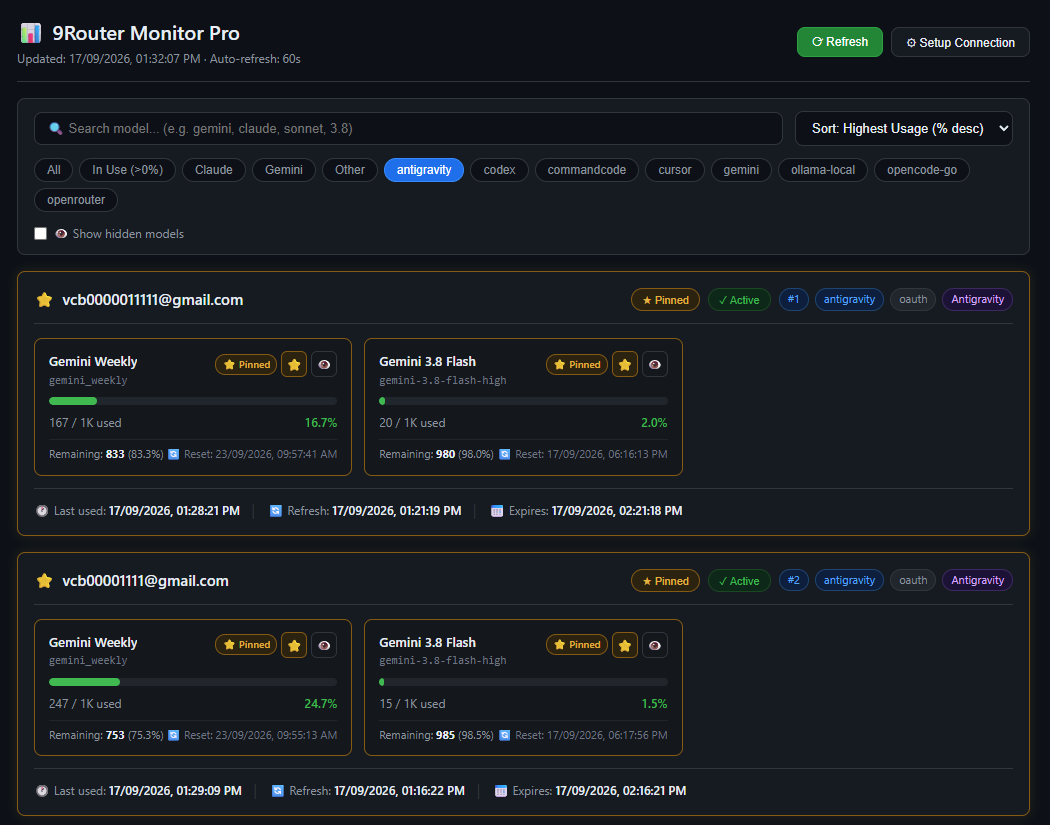
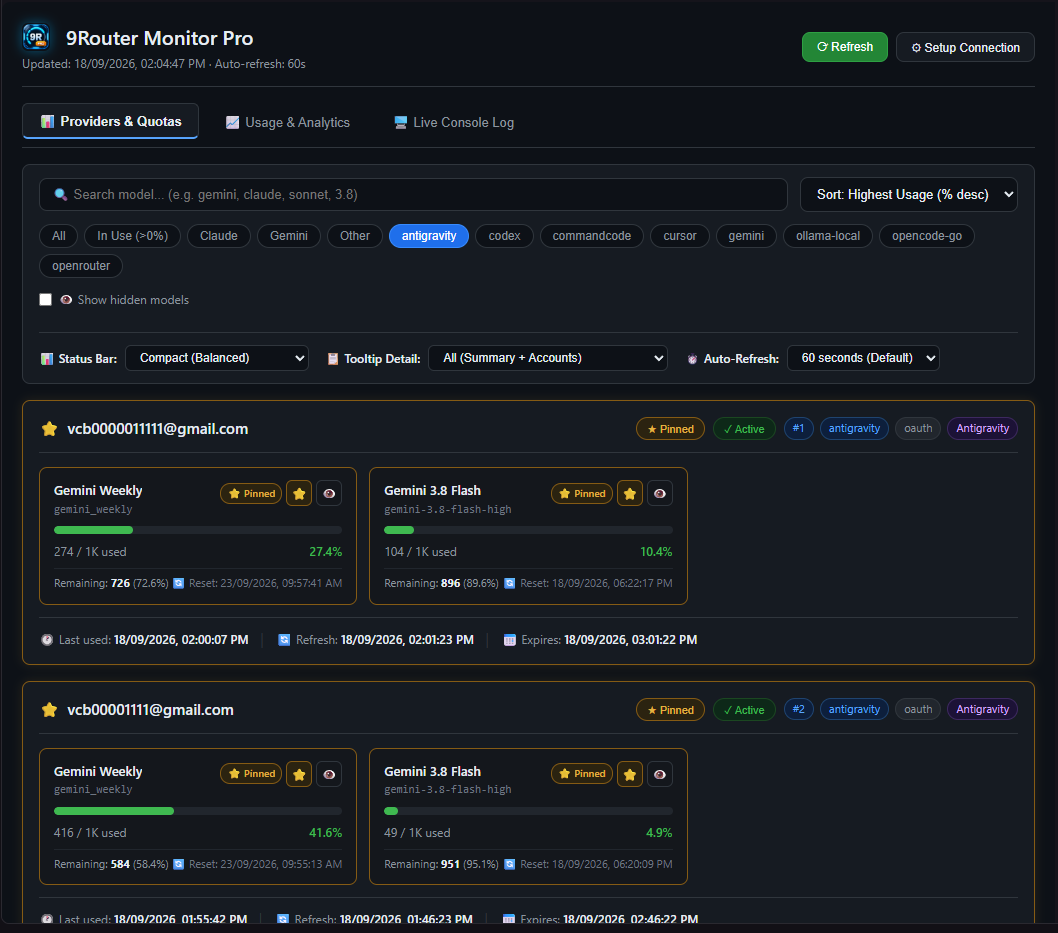
docs: cap nhat changelog va readme phien ban 1.1.0 cung bo screenshot giao dien moi

diff --git a/README.md b/README.md
@@ -24,27 +24,58 @@
 ## 📸 Visual Showcase & Feature Tour
 
 ### 1. Interactive Webview Dashboard Pro Max (3-Tab Command Center)
-A comprehensive control center with seamless tabbed navigation:
-- **📊 Providers & Quotas**: High-performance Fluent Dark Theme grid matrix that gives you an immediate overview of all AI providers connected to 9Router. Features realtime keyword search, dynamic category filter chips (`Antigravity`, `Gemini`, `Claude`, `Codex`, etc.), multi-criteria sorting, and one-click pin/hide/active controls.
-- **📈 Usage & Analytics**: Real-time aggregated monitoring with 5 KPI cards (Total Requests, Prompt Tokens, Cached Tokens, Completion Tokens, Est. Cost) and a live historical table of the 20 most recent requests with status badges.
-- **🖥 Live Console Log**: Stream server logs in real time over Server-Sent Events (SSE) directly into an embedded Fluent dark terminal. Features Pause/Resume, Server Clear sync, Auto-scroll, text search/filter, and syntax highlighting (`DONE`, `POST`, `TOKEN_REFRESH`, `WARN`, `ERROR`).
-- **🔄 Zero State Loss**: Switching between tabs uses CSS display toggling to preserve 100% of the terminal log buffer, scroll position, and search filter state without reloading.
+A comprehensive, zero-latency control center with seamless tabbed navigation:
 
-![9Router Monitor Pro Webview Dashboard](media/screenshot-dashboard.png)
+#### Tab 1 · 📊 Providers & Quotas
+High-performance Fluent Dark Theme grid matrix that gives you an immediate overview of all AI providers connected to 9Router. Features realtime keyword search, dynamic category filter chips (`Antigravity`, `Gemini`, `Claude`, `Codex`, etc.), multi-criteria sorting (Highest Usage, Lowest, Name, Priority), and one-click pin/hide/active controls.
 
-### 2. Multi-Account Status Bar Aggregation & Dedicated Log Widget
+![Providers and Quotas Tab](media/screenshot-dashboard.png)
+
+#### Tab 2 · 📈 Usage & Analytics
+Real-time aggregated monitoring with 5 KPI cards (**Total Requests**, **Prompt Tokens**, **Cached Tokens**, **Completion Tokens**, **Est. Cost**) and a live historical table of recent requests with HTTP status badges, token in/out ratios, model, and active accounts. Features Date Picker filtering with midnight rollover and configurable auto-reload intervals.
+
+![Usage and Analytics Tab](media/screenshot-analytics.png)
+
+#### Tab 3 · 🖥 Live Console Log
+Stream server logs in real time over Server-Sent Events (SSE) directly into an embedded Fluent dark terminal. Features Pause/Resume, Server Clear sync, Auto-scroll, text search/filter, date range navigation, flexible pagination (100, 200, 500, All), and syntax highlighting (`DONE`, `POST`, `TOKEN_REFRESH`, `WARN`, `ERROR`). Automatically activates an **Adaptive Tunnel Engine** when connecting remotely via Cloudflare Tunnel to bypass proxy response buffering.
+
+![Live Console Log Tab](media/screenshot-console-log.png)
+
+---
+
+### 2. Dual Status Bar Widgets & Live Telemetry Pulse
 Never crowd your status bar. 9Router Monitor Pro provides two complementary status bar indicators:
-- **Main Quota Widget**: When pinning multiple accounts, automatically sums up remaining balances and total quotas into a single condensed metric (`10 ⭐ · G3.8 9.9K · GW 8.6K`). Hovering reveals a high-density Markdown inspection table with per-account breakdowns, usage percentages, and reset countdowns.
-- **⚡ Dedicated Log Widget (`$(terminal) 9R Log`)**: An independent status bar shortcut placed right next to the main quota widget. 1-click opens directly into the Live Console Log tab. Can be toggled on/off at any time via `aiTokenUsage.showLogStatusBar` or Quick Menu.
+- **📊 Main Quota Widget**: Sums up remaining balances and total quotas across all pinned accounts into a single condensed metric (`10 ⭐ · G3.8 9.4K · GW 7.6K`). Hovering reveals a high-density Markdown inspection table with aggregate totals and per-account breakdowns.
+- **⚡ Dedicated 9R Log Widget (`$(terminal) 9R Log · 10.2K req · G3.8 🟢`)**: An independent status bar widget placed right next to the main quota bar. Shows real-time request density, current active model, and a live health pulse dot (`🟢`). Click to open directly into the Live Console Log.
 
-![Status Bar Aggregation & Details Tooltip](media/screenshot-status.png)
+![Dual Status Bar Widgets](media/screenshot-status.png)
 
-### 3. Persistent Quick Menu
-No more frustrating hover dismissals! Click the status bar metric to open an interactive, keyboard-navigable Quick Menu. Easily multi-select accounts or models to pin, enable/disable provider accounts, adjust auto-refresh intervals, switch status bar display styles, or reconfigure connections.
+---
 
-![Persistent Quick Menu](media/screenshot-quickmenu.png)
+### 3. Minimalist Hover Intelligence HUD
+Hover over the **9R Log** status bar item to trigger the instant Hover Intelligence HUD:
+- **KPI Snapshot Matrix**: Immediate glance at total requests, input tokens, cache hits, output tokens, and estimated cost.
+- **Recent Transactions Stream**: Interactive table showing the last 10, 25, or 50 API transactions with timestamps, target models, providers, token volumes, and execution statuses.
+- **Synchronized Action Bar**: 1-click links to Quick Menu, Dashboard, Live Console Log, Usage Analytics, Tooltip Mode toggle, and Instant Refresh.
 
-### 4. Full Command Palette Integration
+![Hover Intelligence HUD](media/screenshot-tooltip-log.png)
+
+---
+
+### 4. Persistent Quick Menu & Advanced Controls
+No more frustrating hover dismissals! Click the status bar metric to open an interactive, keyboard-navigable Quick Menu:
+- **Account & Model Pinning**: Multi-select accounts and AI models to track and aggregate.
+- **Account Activation**: Toggle provider account active/inactive status in 9Router on the fly.
+- **Dedicated Timers**: Configure independent auto-refresh intervals for Quota checks (5s–5m) and Fast 9R Log telemetry (3s–60s).
+- **Display Styles**: Customize both Status Bar and Tooltip detail levels with instant preview.
+
+| Account & Model Controls | Display Styles & Timers |
+|:---:|:---:|
+| ![Quick Menu Overview](media/screenshot-quickmenu.png) | ![Quick Menu Advanced Settings](media/screenshot-quickmenu-advanced.png) |
+
+---
+
+### 5. Full Command Palette Integration
 Every single feature is natively exposed to the VS Code Command Palette (`Ctrl+Shift+P` -> `9router`). Manage your AI quotas entirely from the keyboard with zero context switching.
 
 ![Command Palette Integration](media/screenshot-commands.png)
@@ -88,13 +119,23 @@ If 9Router is running on a remote server, home lab, or separate machine:
 
 ## 🎨 Status Bar Display Styles
 
-You can switch display styles at any time via **Quick Menu -> Status Bar Display Style** or via Settings (`aiTokenUsage.statusDisplayMode`):
+Customize the visual density of both the **Main Quota Bar** and the **9R Log Bar** directly via Quick Menu or Settings:
+
+### 1. Main Quota Monitor Bar (`aiTokenUsage.statusDisplayMode`)
 
 | Style | Preview (Multi-Account) | Preview (Single Account) | Best For |
 |:---|:---|:---|:---|
-| **Compact** *(Default)* | `10⭐ · G3.8 9.9K · GW 8.6K` | `⭐ Pro-Acc · G3.8 980` | Clean, high-density daily workflow |
-| **Detailed** | `⭐ 10 acc · G3.8 9.9K/10K (06:16 PM)` | `⭐ Pro-Acc · G3.8 980/1K (06:16 PM)` | Full audit & tracking reset cycles |
-| **Minimal** | `G3.8 9.9K · GW 8.6K` | `G3.8 980` | Ultra-condensed, minimal screen usage |
+| **Compact** *(Default)* | `10⭐ · G3.8 9.4K · GW 7.6K` | `⭐ Pro-Acc · G3.8 980` | Clean, high-density daily workflow |
+| **Detailed** | `⭐ 10 acc · G3.8 9.4K/10K (06:16 PM)` | `⭐ Pro-Acc · G3.8 980/1K (06:16 PM)` | Full audit & tracking reset schedules |
+| **Minimal** | `G3.8 9.4K · GW 7.6K` | `G3.8 980` | Ultra-condensed, minimal screen usage |
+
+### 2. Dedicated 9R Log Telemetry Bar (`aiTokenUsage.logStatusDisplayMode`)
+
+| Style | Status Bar Preview | Telemetry Metrics | Best For |
+|:---|:---|:---|:---|
+| **Minimal** | `$(terminal) 9R Log` | Clean icon and label only | Low distraction, simple shortcut |
+| **Compact** *(Recommended)* | `$(terminal) 9R Log · 10.2K req · G3.8 🟢` | Total requests + last active model + live pulse | Balanced glanceable activity |
+| **Detailed** | `$(terminal) 9R Log · 10.2K req · $1015 · G3.8 7.6K/642 🟢` | Requests + estimated cost + model token IO ratio + pulse | Comprehensive real-time telemetry |
 
 ---
 
@@ -128,15 +169,22 @@ All commands are prefixed with `9Router Monitor Pro` in the Command Palette (`Ct
 
 | Command | Title | Description |
 |:---|:---|:---|
-| `aiTokenUsage.openQuickMenu` | `Open Interactive Menu` | Open interactive popup menu to pin accounts, pin models, toggle status, and change settings |
+| `aiTokenUsage.openQuickMenu` | `Open Interactive Menu` | Open interactive popup menu to pin accounts, pin models, toggle status, and configure styles |
 | `aiTokenUsage.showDetails` | `Show Dashboard` | Open the full Webview Dashboard with search, filters, and cards |
 | `aiTokenUsage.openConsoleLog` | `Open Live Console Log` | Open Webview Dashboard directly at the Live Console Log tab |
+| `aiTokenUsage.openUsageAnalytics` | `Open Usage & Analytics` | Open Webview Dashboard directly at the Usage & Analytics tab |
 | `aiTokenUsage.toggleLogStatusBar` | `Toggle Console Log Status Bar Item` | Toggle visibility of the `$(terminal) 9R Log` status bar button |
-| `aiTokenUsage.refresh` | `Refresh` | Manually trigger immediate quota check with progress indicator |
-| `aiTokenUsage.setConnection` | `Set Connection (URL & Password)` | Configure Base URL (Cloudflare Tunnel or Local) and Dashboard Password |
-| `aiTokenUsage.setDisplayMode` | `Set Status Bar Display Style` | Switch between Compact, Detailed, and Minimal status bar styles |
+| `aiTokenUsage.setLogStatusDisplayMode` | `Set 9R Log Status Bar Style` | Switch 9R Log Bar between Minimal, Compact, and Detailed modes |
+| `aiTokenUsage.setLogTooltipMode` | `Set 9R Log Tooltip Detail Mode` | Configure 9R Log hover tooltip detail: All Details, KPI Summary Only, or Logs Only |
+| `aiTokenUsage.toggleLogTooltipMode` | `Toggle 9R Log Tooltip Mode` | 1-click cycle between All, Summary, and Logs tooltip detail levels |
+| `aiTokenUsage.setLogRefreshInterval` | `Set 9R Log Refresh Interval` | Set fast telemetry auto-refresh frequency (3s, 5s, 10s, 15s, 30s, 60s, or custom) |
+| `aiTokenUsage.setDisplayMode` | `Set Status Bar Display Style` | Switch Quota Bar between Compact, Detailed, and Minimal styles |
 | `aiTokenUsage.setTooltipMode` | `Set Tooltip Detail Level` | Choose between All Details, Aggregate Summary Only, or Account List Only |
-| `aiTokenUsage.setInterval` | `Set Refresh Interval` | Set auto-refresh frequency (15s, 30s, 60s, 2m, 5m, or custom) |
+| `aiTokenUsage.toggleTooltipMode` | `Toggle Tooltip Mode` | 1-click toggle between Summary Only and All Details |
+| `aiTokenUsage.setInterval` | `Set Refresh Interval` | Set quota auto-refresh frequency (5s, 10s, 15s, 30s, 60s, 2m, 5m, or custom) |
+| `aiTokenUsage.showDebugLogs` | `View Live Debug Output Logs` | Open the diagnostic Output Channel for real-time socket and HTTP traces |
+| `aiTokenUsage.refresh` | `Refresh` | Manually trigger immediate quota check with native progress notification |
+| `aiTokenUsage.setConnection` | `Set Connection (URL & Password)` | Configure Base URL (Cloudflare Tunnel or Local) and Dashboard Password |
 
 ---
 
@@ -147,11 +195,14 @@ Customize extension behavior in your `settings.json`:
 | Setting | Type | Default | Description |
 |:---|:---:|:---:|:---|
 | `aiTokenUsage.showLogStatusBar` | `boolean` | `true` | Show dedicated `$(terminal) 9R Log` status bar item to quickly open Console Log |
-| `aiTokenUsage.statusDisplayMode` | `string` | `"compact"` | Status bar style: `"compact"`, `"detailed"`, or `"minimal"` |
-| `aiTokenUsage.tooltipDisplayMode` | `string` | `"all"` | Tooltip content detail: `"all"` (both summary & accounts), `"summary"` (summary table only), or `"accounts"` (account list only) |
+| `aiTokenUsage.logStatusDisplayMode` | `string` | `"minimal"` | 9R Log status bar style: `"minimal"`, `"compact"` (with reqs & live pulse), or `"detailed"` (with reqs & cost) |
+| `aiTokenUsage.logTooltipDisplayMode` | `string` | `"all"` | 9R Log tooltip detail: `"all"` (KPI + recent logs), `"summary"` (KPI only), or `"logs"` (recent logs only) |
+| `aiTokenUsage.logStatusBarRefreshIntervalSeconds` | `number` | `10` | Fast telemetry refresh rate in seconds (minimum: 3s) |
+| `aiTokenUsage.statusDisplayMode` | `string` | `"compact"` | Main Quota status bar style: `"compact"`, `"detailed"`, or `"minimal"` |
+| `aiTokenUsage.tooltipDisplayMode` | `string` | `"all"` | Main Quota tooltip detail: `"all"`, `"summary"` (summary only), or `"accounts"` (accounts only) |
+| `aiTokenUsage.refreshIntervalSeconds` | `number` | `60` | Quota auto-refresh frequency in seconds (minimum: 5s) |
 | `aiTokenUsage.apiBaseUrl` | `string` | `"http://localhost:20128"` | 9Router Base URL (e.g. `http://localhost:20128` or `https://*.trycloudflare.com`) |
 | `aiTokenUsage.authMode` | `string` | `"auto"` | Authentication method: `"auto"`, `"password"`, or `"token"` |
-| `aiTokenUsage.refreshIntervalSeconds` | `number` | `60` | Auto-refresh frequency in seconds (minimum: 10) |
 | `aiTokenUsage.statusBarQuota` | `string` | `"session"` | Fallback quota for status bar when no model is explicitly pinned |
 | `aiTokenUsage.providersPath` | `string` | `"/api/providers?..."` | Endpoint to fetch provider account connections |
 | `aiTokenUsage.usagePathTemplate` | `string` | `"/api/usage/{id}"` | Endpoint template to fetch quota by provider ID |

diff --git a/CHANGELOG.md b/CHANGELOG.md
@@ -5,10 +5,36 @@ All notable changes to this project are documented in this file.
 ## [1.1.0] - 2026-09-18
 
 ### Added
-- 🖥 **Live Console Log**: Stream nhật ký máy chủ thời gian thực qua SSE (`/api/translator/console-logs/stream`), giao diện terminal đen Fluent dark, nút Pause/Resume, Clear đồng bộ server, Auto-scroll, Filter tìm kiếm, tô màu cú pháp theo mã trạng thái (DONE, POST, TOKEN_REFRESH, WARN, ERROR).
-- 📈 **Usage & Analytics**: Dashboard giám sát tổng hợp 5 thẻ KPI (Total Requests, Prompt Tokens, Cached Tokens, Completion Tokens, Est. Cost) và bảng lịch sử 20 request gần nhất.
-- ⚡ **Dedicated Status Bar Log Widget**: Thêm icon phụ `$(terminal) 9R Log` cạnh thanh trạng thái chính, click 1 chạm mở thẳng tab Console Log; hỗ trợ bật/tắt linh hoạt qua setting `aiTokenUsage.showLogStatusBar` hoặc Quick Menu.
-- 🔄 **Zero State Loss Navigation**: Chuyển đổi qua lại giữa 3 Tab (Providers & Quotas, Usage Analytics, Live Console) bằng CSS display toggle, giữ nguyên 100% nội dung log, filter và vị trí cuộn.
+- 🖥 **Live Console Log (SSE & Adaptive Tunnel)**: 
+  - Tích hợp tab Console Log máy chủ trực tiếp vào Webview Dashboard qua kết nối SSE chuẩn RFC (`/api/translator/console-logs/stream`).
+  - Giao diện terminal đen Fluent dark cao cấp với tô màu cú pháp theo mã trạng thái (`DONE`, `POST`, `TOKEN_REFRESH`, `WARN`, `ERROR`), huy hiệu trạng thái `Live (SSE)` hoặc `Live (Tunnel)`.
+  - Bộ điều khiển mạnh mẽ: Pause/Resume stream, Clear đồng bộ máy chủ, Reconnect tức thời, Auto-scroll thông minh.
+  - Hỗ trợ lọc theo từ khóa, chọn ngày linh hoạt (tự động rollover sang ngày mới lúc nửa đêm) và phân trang linh hoạt (100, 200, 500, All dòng; nút First/Prev/Next/Last).
+- 📈 **Usage & Analytics**:
+  - Tích hợp tab giám sát hiệu năng và chi phí với 5 thẻ KPI trọng yếu: Total Requests, Prompt Tokens, Cached Tokens, Completion Tokens và Est. Cost.
+  - Bảng thống kê chi tiết lịch sử các yêu cầu gần nhất kèm thông tin Model, Provider, Tài khoản, Tỷ lệ In/Out Tokens và trạng thái xử lý.
+  - Tích hợp bộ chọn ngày (Today/All/DatePicker), tự động làm mới theo chu kỳ (1s, 2.5s, 5s, 10s, 30s) hoặc làm mới thủ công.
+- ⚡ **Dedicated Status Bar 9R Log Widget**:
+  - Bổ sung widget trạng thái độc lập `$(terminal) 9R Log` đặt cạnh widget Quota chính, hiển thị trạng thái kết nối và nhịp đập trực tiếp (Live Pulse).
+  - Cung cấp 3 chế độ hiển thị linh hoạt: `Minimal` (`$(terminal) 9R Log`), `Compact` (`$(terminal) 9R Log · 10.1K req · G3.8 🟢`), và `Detailed` (`$(terminal) 9R Log · 10.1K req · $980 · G3.8 7.2K/940 🟢`).
+  - Tùy chỉnh bật/tắt widget độc lập qua setting `aiTokenUsage.showLogStatusBar`.
+- 🔍 **Minimalist Hover Intelligence HUD**:
+  - Tooltip Markdown mật độ cao khi hover vào 9R Log Status Bar: hiển thị tức thì bảng snapshot KPI và danh sách 10/25/50 giao dịch gần nhất.
+  - Lựa chọn nhanh số lượng log hiển thị (`Show: 10  25  50`) ngay trên tooltip với độ trễ 0ms.
+  - Thiết kế đồng bộ hoàn hảo giữa Quota Monitor tooltip và 9R Log tooltip với chân trang điều hướng thống nhất 6 action: `Quick Menu`, `Dashboard`, `Live Console Log`, `Usage Analytics`, `Mode: [Current]`, và `Refresh`.
+- ⏱ **Dual-Timer Auto-Refresh Architecture**:
+  - Tách biệt hai chu kỳ làm mới độc lập: Quota Timer cho hạn mức tài khoản (mặc định 60s) và 9R Log Fast Timer cho telemetry/giao dịch (mặc định 10s, hỗ trợ từ 3s).
+  - Tải ngầm siêu tốc ~200ms không gây gián đoạn hay block giao diện người dùng.
+- 🏗 **Modular Clean Architecture**:
+  - Tái cấu trúc toàn bộ mã nguồn theo chuẩn Clean Architecture 5 tầng: Domain Models (`types/`), Transport Layer (`services/httpTransport.ts`), Specialized Services (`quotaService.ts`, `analyticsService.ts`, `logStreamEngine.ts`, `apiClient.ts`), UI Controllers (`statusBar.ts`, `tooltip.ts`, `quickMenu.ts`, `dashboardPanel.ts`), và Modular Views (`views/tabs/`, `views/styles/`, `views/scripts/`).
+  - Loại bỏ hoàn toàn các God-files nguyên khối, đảm bảo cấu trúc DAG không circular dependencies.
+
+### Fixed
+- **Cloudflare Tunnel SSE Buffering Freeze**: Triển khai Adaptive Log Engine tự động nhận diện URL Remote / Cloudflare Tunnel để chuyển đổi sang cơ chế transaction polling thông minh với bộ đệm khử trùng lặp (Deduplication Set), vượt qua cơ chế proxy buffering của Cloudflare.
+- **HTTP 401 Unauthorized do CLI Secret đa tài khoản**: Triển khai quét đa thư mục AppData cục bộ và tự động chọn CLI Token mới nhất theo thời gian sửa đổi file (`mtimeMs`).
+- **Màn hình Terminal trống khi kết nối**: Loại bỏ fake init event và chuẩn hóa cơ chế phân tách chunk SSE theo ranh giới `\n\n` chuẩn RFC.
+- **Lỗi Stale Cache Reset Display Styles**: Loại bỏ biến đệm trong bộ nhớ gây ghi đè cài đặt người dùng, đồng bộ trực tiếp với `vscode.workspace.getConfiguration` làm nguồn chân lý duy nhất (Single Source of Truth).
+- **Rơi dòng menu footer tooltip**: Loại bỏ ký tự phân cách gạch đứng `|` rườm rà, tối ưu khoảng cách hiển thị nút bấm gọn gàng, thanh thoát trên 1 dòng đơn.
 
 ## [1.0.3] - 2026-09-17
 
